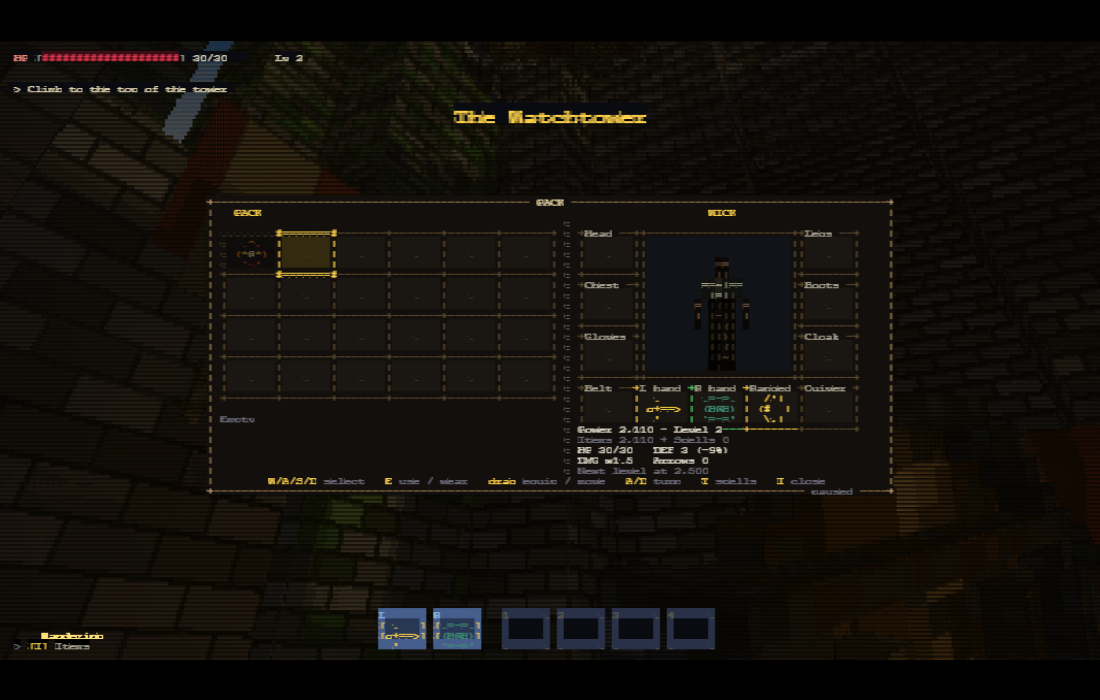
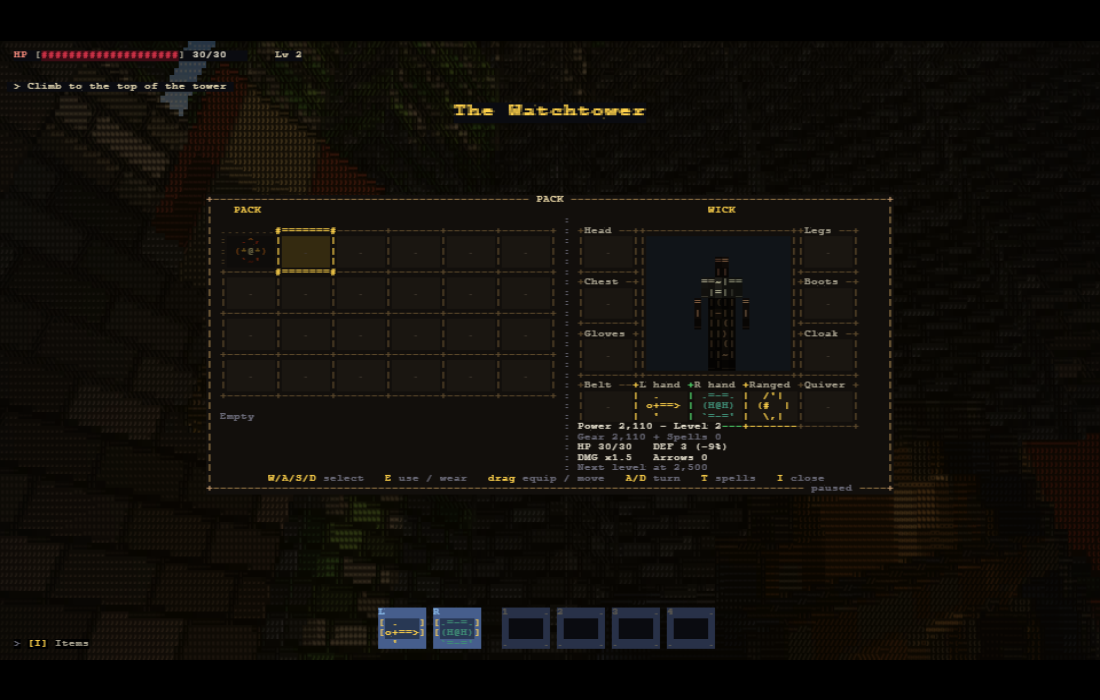
PLAYER-LEVEL-01: Spells tab shows Power N (+ Next: +M) per learned spell level

diff --git a/game/js/quest/spellPageView.test.js b/game/js/quest/spellPageView.test.js
@@ -10,7 +10,7 @@ import { SPELL_DEFS } from './spellDefs.js';
 import { createSpellBook } from './sim/spellBook.js';
 import { useScroll, SCROLL_ID } from './sim/spellScroll.js';
 import { addItem, countOf } from './sim/inventory.js';
-import { tierText } from './spellPageView.js';
+import { tierText, spellHeadText } from './spellPageView.js';
 
 paletteMod; itemsMod; invStyleMod;
 const A = globalThis.ASSETS, style = A.uiStyle.inventory, P = style.panel;
@@ -38,10 +38,12 @@ ok(row(5).includes('Freeze') && row(6).includes('[###] mp 4 cd 1.5 s'), 'AC1 Fre
 ok(row(5).includes('Telekinesis') && row(6).includes('Not learned') && row(7).includes('Wake more') && row(5).includes('Teleport') && row(7).includes('Help Rook at the') && row(8).includes('ford.'), 'AC1 one row of 4 cards, hints derived');
 ok(/Fireball.*-.*Freeze/.test(row(6).replace(/\[#--\][^|]*\|/, '')) || row(6).includes('-'), 'cards joined by -');
 ok(row(12).includes('Fireball  level 1') && row(13).includes('Now: 5 mp, dmg 3, radius 2, cooldown 0.5 s') && row(14).includes('Next level: 5 mp, dmg 4, radius 3.5, cooldown 0.5 s'), 'AC2 Fireball 1 -> 2 golden lines');
+ok(row(12).includes('Power 250  (Next: +350)'), 'power: level 1 shows Power + Next');
 ok(row(18).includes('Spell Scrolls: 1') && row(19).includes('[E] Use Spell Scroll'), 'AC3 footer');
 ok(!/esc/i.test(s), 'AC4 no Esc text');
 for (let y = 0; y < P.h; y++) ok(row(y).length <= 160, 'AC4 row fits');
 step('KeyD'); s = draw();
+ok(row(12).includes('Freeze  level 3  -  Power 1,000') && !row(12).includes('Next'), 'power: max level, no Next');
 ok(row(12).includes('Freeze  level 3') && row(14).includes('Max level') && !row(19).includes('[E]'), 'AC2 level 3 shows Max level, no scroll action');
 step('KeyD'); s = draw();
 ok(row(12).includes('Telekinesis  not learned') && row(13).includes('Not learned yet. Wake more waystones.') && !row(19).includes('[E]'), 'unlearned card cannot take a scroll');
@@ -50,6 +52,7 @@ ok(row(19).includes('Raise Fireball to level 2?  [E] Yes  [Q] No'), 'AC3 confirm
 step('KeyQ'); s = draw();
 ok(st.fireball === 1 && scrolls() === 1 && !row(19).includes('Raise'), 'AC3 Q cancels, no change');
 step('KeyE'); step('KeyE'); s = draw();
+ok(row(12).includes('Fireball  level 2  -  Power 600  (Next: +400)'), 'power: level 2');
 ok(st.fireball === 2 && scrolls() === 0 && used[0] === 'fireball' && toasts[0] === 'Fireball is now level 2', 'AC3 Yes calls useScroll');
 ok(row(18).includes('Spell Scrolls: 0') && !row(19).includes('[E]'), 'footer after use');
 // no pack change, tab toggles back, close works
@@ -58,5 +61,6 @@ step('KeyT'); step('KeyI'); ok(!view.isOpen, 'I closes from the page');
 // 0 alloc per draw (heap delta over many draws)
 view.open(); step('KeyT'); draw();
 if (globalThis.gc) { globalThis.gc(); const h0 = process.memoryUsage().heapUsed; for (let i = 0; i < 2000; i++) view.draw(ui); const d = process.memoryUsage().heapUsed - h0; ok(d < 2e6, 'AC4 draw ~0 alloc (' + d + ' B)'); }
+ok(spellHeadText('X', 0) === 'X  not learned', 'power: unlearned has no Power');
 ok(tierText({ mana: 4, cd: 1, stun: 0.8 }) === '4 mp, stun 0.8 s, cooldown 1 s', 'tierText');
 console.log(`spellPageView: ${pass} pass, ${fail} fail`); if (fail) { console.log(failures.join('\n')); process.exit(1); }

diff --git a/game/js/quest/spellPageView.js b/game/js/quest/spellPageView.js
@@ -5,6 +5,8 @@
 // book = createSpellBook (tier(id) 0..3, canRaise(id)); scrolls() = Spell Scroll count; useScroll(id) = new level or 0 (main wraps spellScroll.useScroll).
 const DEFAULT_RGB = [90, 220, 205];
 import { learnHint } from './sim/spellBooks.js';
+import { SPELL_POWER } from './sim/statsConfig.js';
+import { formatPower } from './sim/power.js'; // PLAYER-LEVEL-01 (D-116): Power N per learned level
 export const CARD = Object.freeze({ x0: 2, pitch: 24, w: 23, h: 6, y0: 4, detailY: 12, footY: 18, hintW: 19 });
 let PUT = null, PW = 0; // draw-time put/width, so `text` is not a per-frame closure
 function text(x, y, s, fg) { for (let j = 0; j < s.length && x + j < PW; j++) PUT(x + j, y, s.charCodeAt(j), fg); }
@@ -23,6 +25,13 @@ export function tierText(row) {
   if (row.height != null) p.push('height ' + NUM(row.height) + ' m');
   p.push('cooldown ' + NUM(row.cd) + ' s');
   return p.join(', ');
+}
+
+/** Detail head: "Fireball  level 2  -  Power 600  (Next: +400)"; unlearned = name only; max level = no Next. */
+export function spellHeadText(name, t) {
+  if (!(t >= 1)) return name + '  not learned';
+  const L = t >= 3 ? 3 : t, nx = L < 3 ? '  (Next: +' + formatPower(SPELL_POWER[L + 1] - SPELL_POWER[L]) + ')' : '';
+  return name + '  level ' + t + '  -  Power ' + formatPower(SPELL_POWER[L]) + nx;
 }
 
 /** Word-wrap to at most 2 lines of w chars (construct time only). */
@@ -48,7 +57,7 @@ export function createSpellPageView(o) {
         stat.push(t ? pips[t] + ' mp ' + d.tiers[t - 1].mana + ' cd ' + NUM(d.tiers[t - 1].cd) + ' s' : '');
         now.push(t ? 'Now: ' + tierText(d.tiers[t - 1]) : '');
         next.push(t === 0 ? '' : t >= 3 ? 'Max level' : 'Next level: ' + tierText(d.tiers[t]));
-        plain.push(d.name + (t ? '  level ' + t : '  not learned'));
+        plain.push(spellHeadText(d.name, t));
         conf.push(t >= 3 ? '' : 'Raise ' + d.name + ' to level ' + (t + 1) + '?  [E] Yes  [Q] No');
       }
       cards.push({ hint: learnHint(d.id) || '', hl: wrap(learnHint(d.id) || '', CARD.hintW), d, ci, x: CARD.x0 + ci * CARD.pitch, y: CARD.y0, rgb: rgbk, name: d.name, stat, now, next, head: plain, conf, glyph: (d.glyph || '*').charCodeAt(0) });

diff --git a/docs/lanes/pc-b1.md b/docs/lanes/pc-b1.md
@@ -1921,3 +1921,4 @@ Before/after teaser t=0: docs/test-reports/ob213-falls-before.png / ob213-falls-
   Stills docs/test-reports/playerlevel/{hud,character}.png (Power 2,110 - Level 2). D-069 gate helper exported, not wired (Burl flag stays). Spell page 'Power N' per card not done.
 ### FLICKER-F3-01 (kestrel-3, 2026-10-16) - po-review
 - game/js/dev/flickerMeter.js (+test: exact ratio, EMA, heap probe) + main.js 8 lines (import, f3Flicker, F3-only async readbackCells+Geometry, text line); `?flicker=0` removes. Still EMA + raw-moving only; no reprojected variant.
+- PLAYER-LEVEL-01 leftover: Spells tab detail head shows 'Power N (Next: +M)' (spellPageView.js spellHeadText, test +4); still docs/test-reports/playerlevel/spells-tab.png (fresh save: no spell learned, so only 'not learned' visible; levels 1/2/max proven in Node test).
